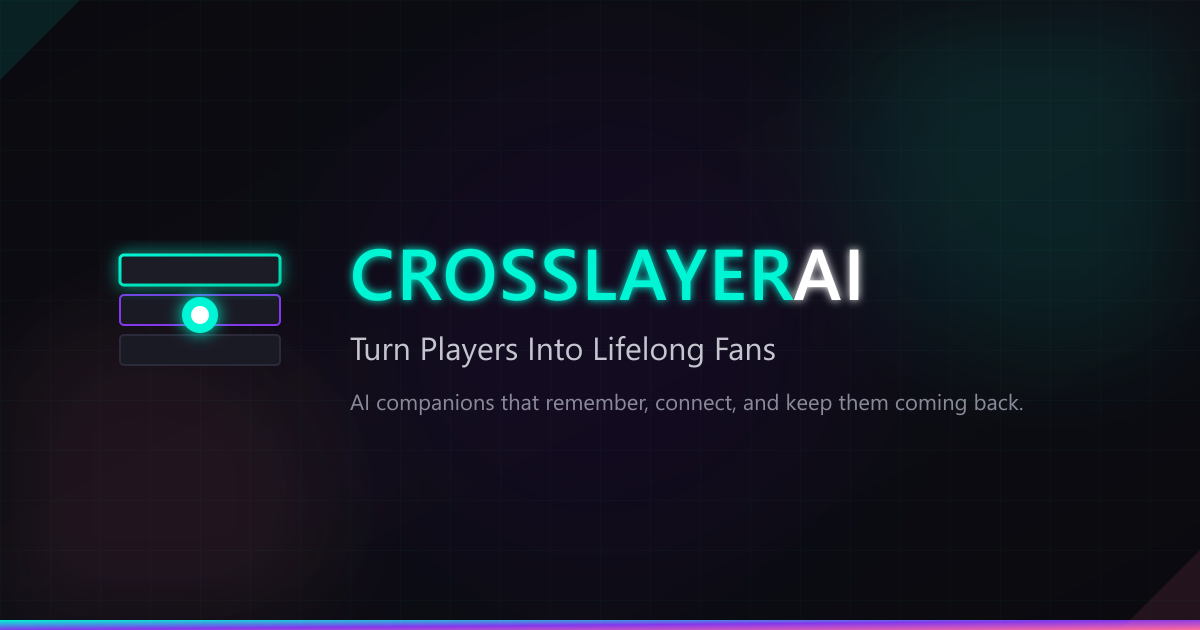
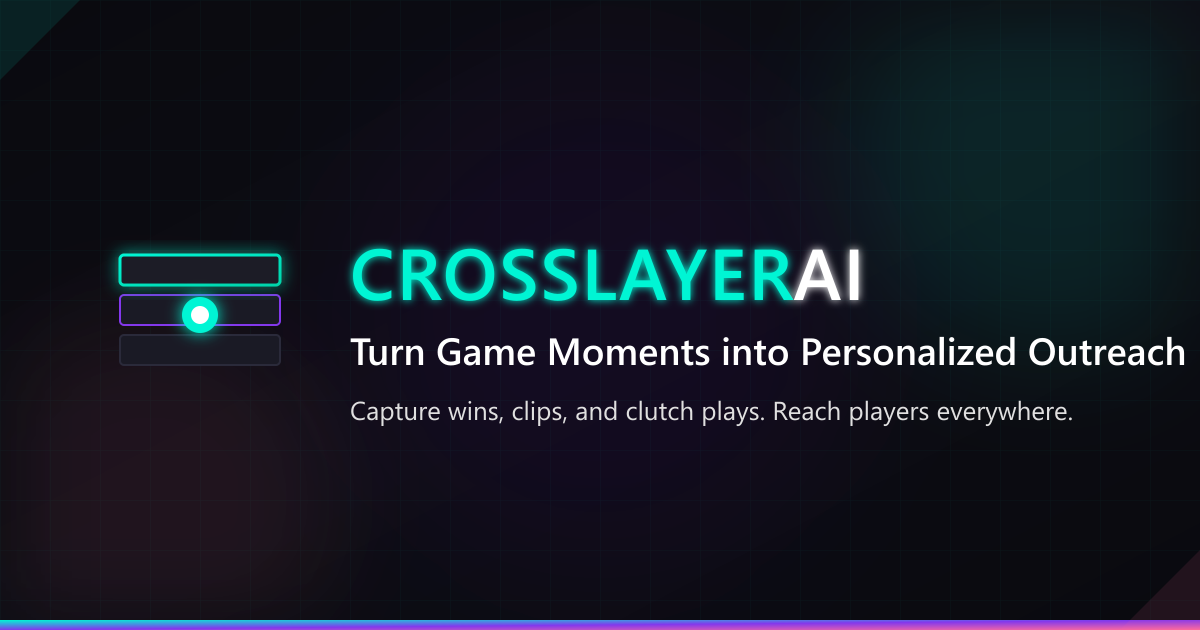
Fix

Changed region(s): [[0.2775, 0.5127, 0.9867, 0.6032], [0.2775, 0.6333, 0.8942, 0.6937]]

diff --git a/src/app/layout.tsx b/src/app/layout.tsx
@@ -17,9 +17,9 @@ const jetbrainsMono = JetBrains_Mono({
 })
 
 export const metadata: Metadata = {
-  title: 'CROSSLAYERAI | Stop Losing Players. Start Bringing Them Back.',
-  description: 'The player re-engagement engine powered by AI companions. Reduce churn, increase LTV, and bring churned players back-automatically through Discord, TikTok, and beyond.',
-  keywords: 'player retention, reduce churn, player re-engagement, gaming AI, AI companion, game development, AI SDK, game retention, Inworld AI alternative, Convai alternative, game analytics, Discord bot, player engagement, LiveOps, win-back',
+  title: 'CrossLayerAI | Turn Game Moments into Personalized Outreach',
+  description: 'Capture wins, clips, and clutch plays. Reach players on Discord, TikTok, and everywhere they are with AI-powered personalized engagement.',
+  keywords: 'player retention, player re-engagement, gaming AI, AI companion, game development, AI SDK, Discord bot, TikTok gaming, player engagement, LiveOps, personalized outreach, game clips, Inworld AI alternative, Convai alternative',
   icons: {
     icon: [
       { url: '/favicon.svg', type: 'image/svg+xml' },
@@ -27,8 +27,8 @@ export const metadata: Metadata = {
     apple: '/apple-touch-icon.svg',
   },
   openGraph: {
-    title: 'CROSSLAYERAI | Stop Losing Players. Start Bringing Them Back.',
-    description: 'The player re-engagement engine powered by AI companions. Reduce churn, increase LTV, and bring churned players back automatically.',
+    title: 'CrossLayerAI | Turn Game Moments into Personalized Outreach',
+    description: 'Capture wins, clips, and clutch plays. Reach players on Discord, TikTok, and everywhere they are with AI-powered personalized engagement.',
     type: 'website',
     url: 'https://crosslayerai.com',
     siteName: 'CrossLayerAI',
@@ -43,8 +43,8 @@ export const metadata: Metadata = {
   },
   twitter: {
     card: 'summary_large_image',
-    title: 'CROSSLAYERAI | Stop Losing Players. Start Bringing Them Back.',
-    description: 'The player re-engagement engine powered by AI companions. Reduce churn and bring players back automatically.',
+    title: 'CrossLayerAI | Turn Game Moments into Personalized Outreach',
+    description: 'Capture wins, clips, and clutch plays. Reach players on Discord, TikTok, and everywhere they are.',
     images: ['https://crosslayerai.com/og-image.png'],
   },
   metadataBase: new URL('https://crosslayerai.com'),
